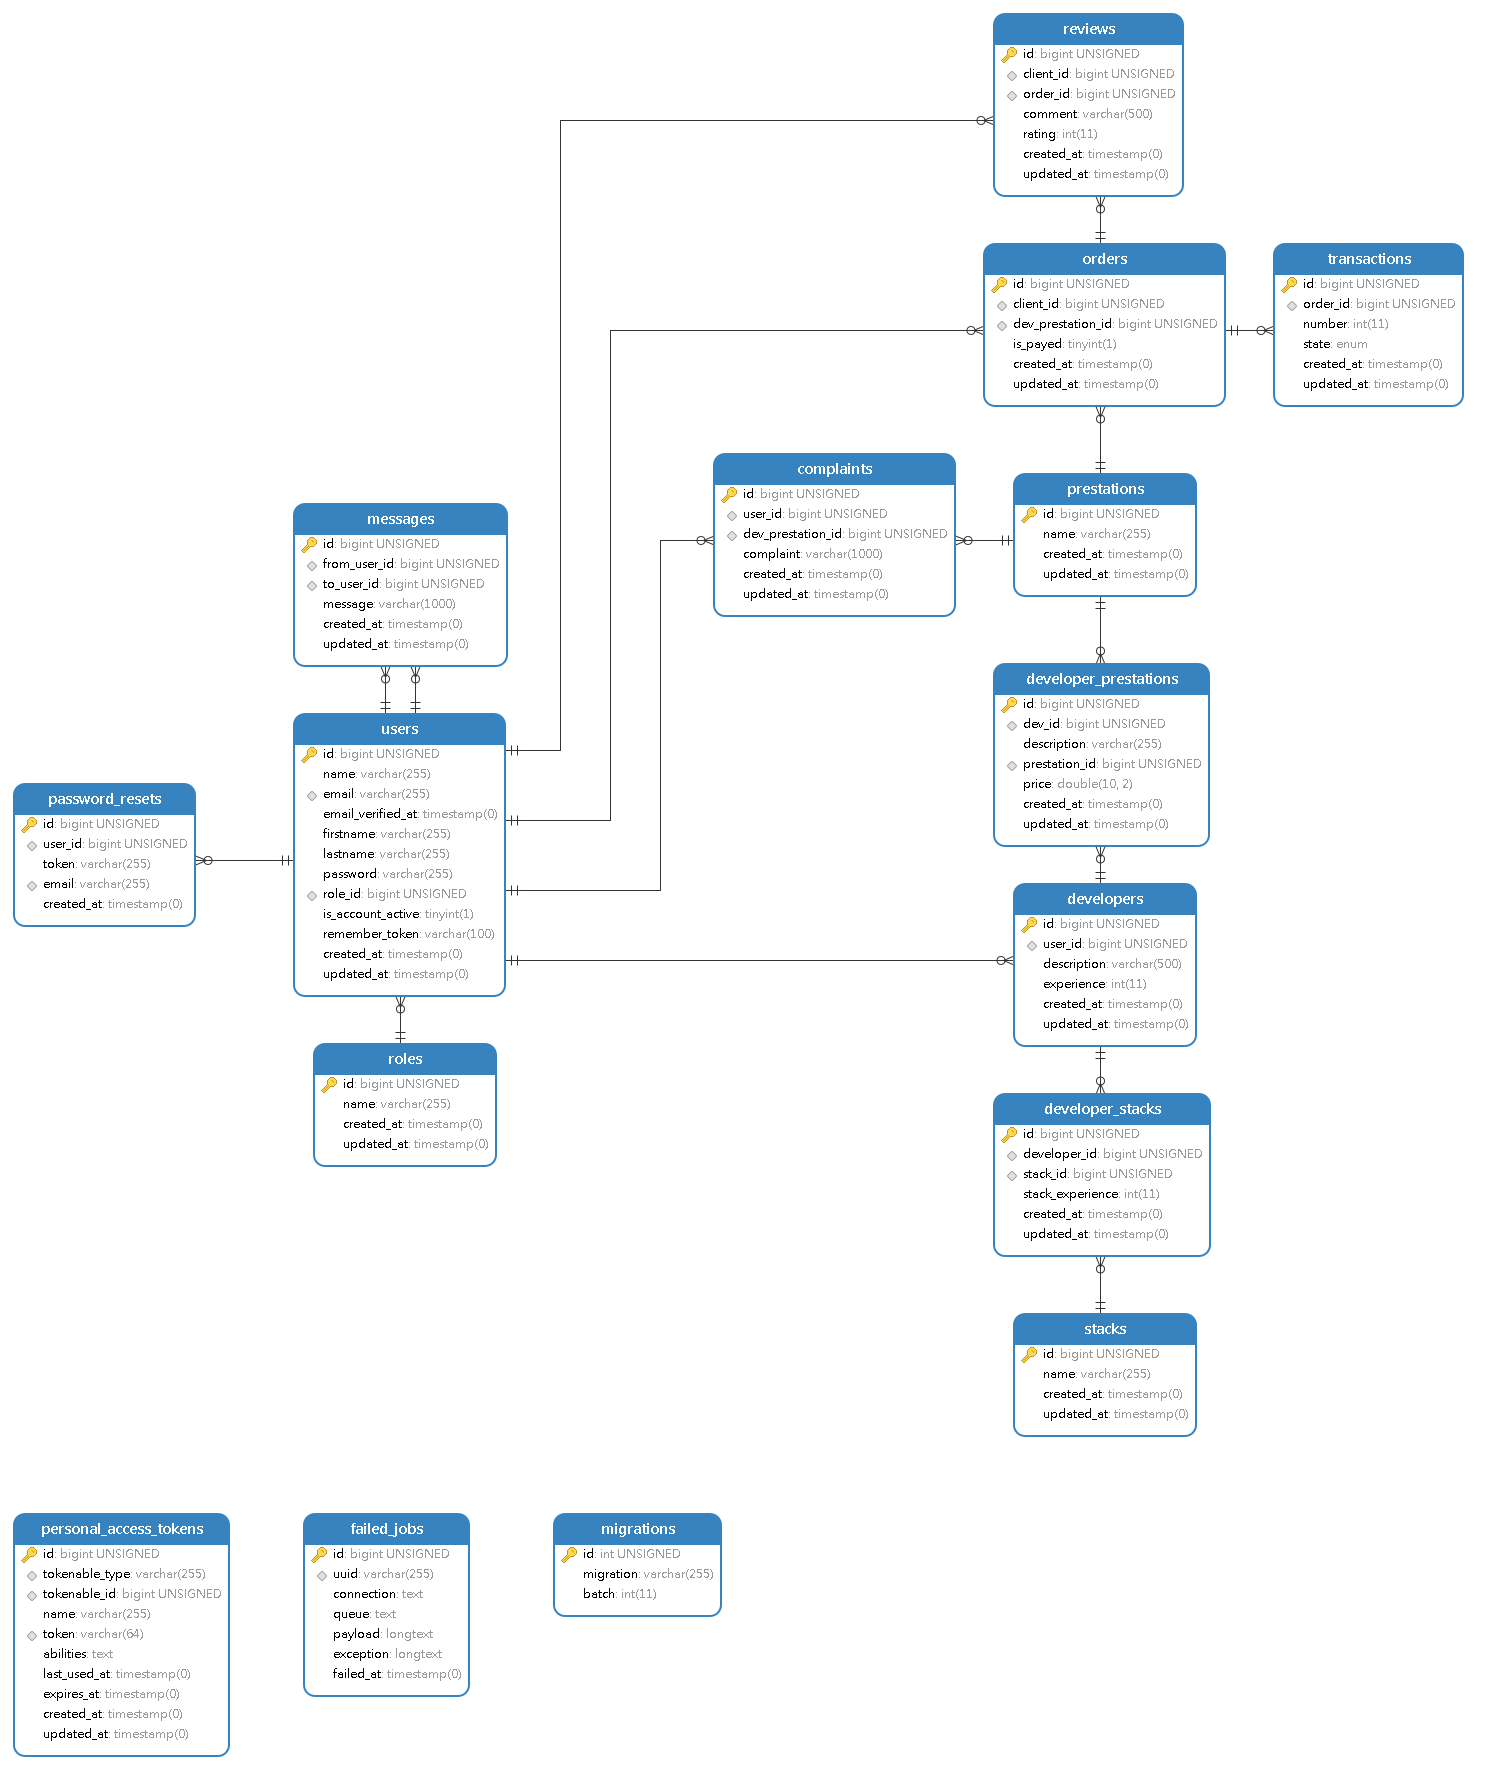
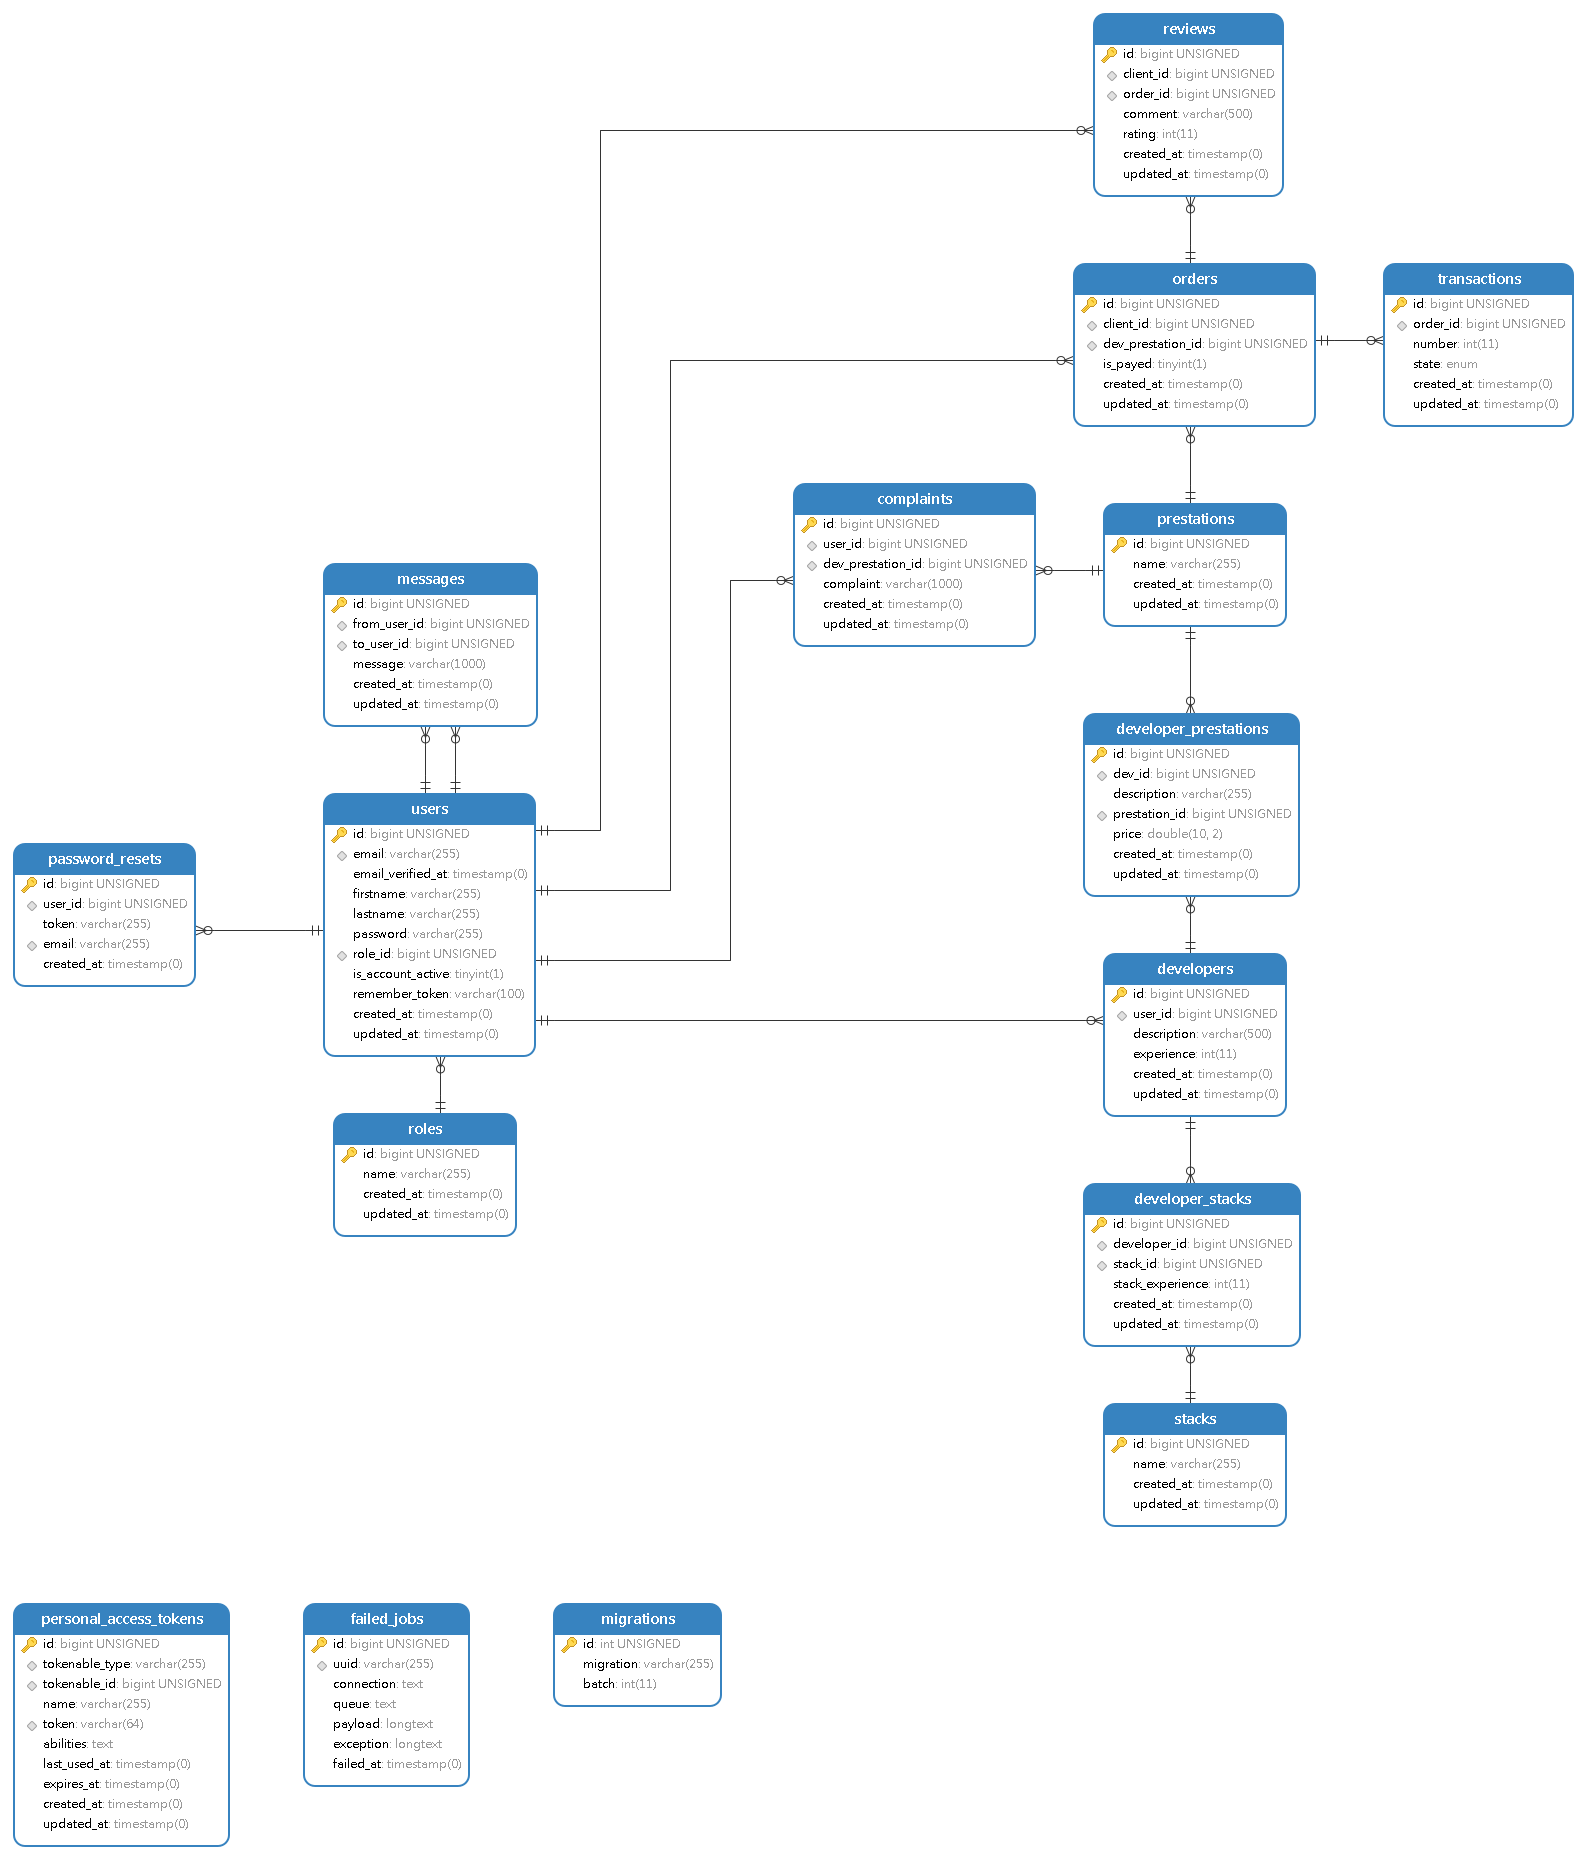
login/register controller + routing

diff --git a/app/Http/Controllers/Api/AuthController.php b/app/Http/Controllers/Api/AuthController.php
@@ -1,0 +1,102 @@
+<?php
+
+namespace App\Http\Controllers\Api;
+
+use App\Http\Controllers\Controller;
+use App\Http\Requests\LoginRegister\LoginUserRequest;
+use App\Http\Requests\LoginRegister\StoreNewUserRequest;
+use App\Models\Developer;
+use App\Models\PersonalAccessToken;
+use App\Models\User;
+//use http\Env\Request;
+use Illuminate\Support\Facades\Auth;
+use Illuminate\Support\Facades\Hash;
+use Illuminate\Http\Request;
+
+class AuthController extends Controller
+{
+    public function register(StoreNewUserRequest $request): \Illuminate\Http\JsonResponse
+    {
+        if ($request->input('type') == "client") {
+            if ($request->input('experience') == "" || $request->input('description') == "") {
+                $user = User::create([
+                    'firstname' => $request->input('firstname'),
+                    'lastname' => $request->input('lastname'),
+                    'email' => $request->input('email'),
+                    'password' => Hash::make($request->input('password')),
+                    'role_id' => 1
+                ]);
+            } else {
+                return response()->json([
+                    'error' => 'Invalid data.'
+                ], 400);
+            }
+        } else if ($request->input('type') == "developer") {
+            if ($request->input('experience') != "" || $request->input('description') != "") {
+                $user = User::create([
+                    'firstname' => $request->input('firstname'),
+                    'lastname' => $request->input('lastname'),
+                    'email' => $request->input('email'),
+                    'password' => Hash::make($request->input('password')),
+                    'role_id' => 2
+                ]);
+
+                $developer = Developer::create([
+                    'user_id' => $user->id,
+                    'description' => $request->input('description'),
+                    'experience' => $request->input('experience')
+                ]);
+
+                if(!$developer->id){
+                    User::destroy($user->id);
+                    return response()->json([
+                        'error' => 'Invalid data.'
+                    ], 400);
+                }
+            } else {
+                return response()->json([
+                    'error' => 'Invalid data.'
+                ], 400);
+            }
+        } else {
+            return response()->json([
+                'error' => 'Invalid data.'
+            ], 400);
+        }
+
+        $token = explode('|',$user->createToken('auth_token')->plainTextToken);
+
+        return response()->json([
+            'access_token' => $token[1],
+            'token_type' => 'Bearer',
+        ]);
+    }
+
+    public function login(LoginUserRequest $request): \Illuminate\Http\JsonResponse
+    {
+        if (!Auth::attempt($request->only('email', 'password'))) {
+            return response()->json([
+                'message' => 'Invalid login details'
+            ], 401)->header('Accept', 'application/json');
+        }
+
+        $user = User::where('email', $request['email'])->firstOrFail();
+
+        $token = explode('|',$user->createToken('auth_token')->plainTextToken);
+
+        return response()->json([
+            'user' => $user,
+            'dev' => $user->developer,
+            'access_token' => $token[1],
+            'token_type' => 'Bearer',
+        ]);
+    }
+
+    public function logout(Request $request)
+    {
+        $request->user()->currentAccessToken()->delete();
+        return response()->json([
+            'msg' => 'ok',
+        ]);
+    }
+}

diff --git a/database/seeders/UserSeeder.php b/database/seeders/UserSeeder.php
@@ -18,7 +18,6 @@ class UserSeeder extends Seeder
     {
         DB::table('users')->insert([
             [
-                'name' => 'admin',
                 'email' => Str::random(10).'@gmail.com',
                 'password' => Hash::make('password'),
                 'email_verified_at' => '2019-12-02 20:01:00',
@@ -30,7 +29,6 @@ class UserSeeder extends Seeder
                 'updated_at' => '2022-09-26 15:25:52',
             ],
             [
-                'name' => 'user',
                 'email' => Str::random(10).'@gmail.com',
                 'password' => Hash::make('password'),
                 'email_verified_at' => '2019-12-02 20:01:00',
@@ -42,7 +40,6 @@ class UserSeeder extends Seeder
                 'updated_at' => '2022-09-26 15:25:52',
             ],
             [
-                'name' => 'developer',
                 'email' => Str::random(10).'@gmail.com',
                 'password' => Hash::make('password'),
                 'email_verified_at' => '2019-12-02 20:01:00',

diff --git a/app/Http/Requests/LoginRegister/StoreNewUserRequest.php b/app/Http/Requests/LoginRegister/StoreNewUserRequest.php
@@ -1,0 +1,35 @@
+<?php
+
+namespace App\Http\Requests\LoginRegister;
+
+use Illuminate\Foundation\Http\FormRequest;
+
+class StoreNewUserRequest extends FormRequest
+{
+    /**
+     * Determine if the user is authorized to make this request.
+     *
+     * @return bool
+     */
+    public function authorize(): bool
+    {
+        return true;
+    }
+
+    /**
+     * Get the validation rules that apply to the request.
+     *
+     * @return array<string, mixed>
+     */
+    public function rules()
+    {
+        return [
+            'firstname' => 'required|string|max:255',
+            'lastname' => 'required|string|max:255',
+            'email' => 'required|string|email|max:255|unique:users',
+            'password' => 'required|string|min:8',
+            'experience' => 'required_if:type,developer|max:80',
+            'description' => 'required_if:type,developer|max:500'
+        ];
+    }
+}

diff --git a/database/migrations/2014_10_12_000000_create_users_table.php b/database/migrations/2014_10_12_000000_create_users_table.php
@@ -15,14 +15,13 @@ return new class extends Migration
     {
         Schema::create('users', function (Blueprint $table) {
             $table->id();
-            $table->string('name');
             $table->string('email')->unique();
             $table->timestamp('email_verified_at')->nullable();
             $table->string('firstname');
             $table->string('lastname');
             $table->string('password');
             $table->unsignedBigInteger('role_id');
-            $table->boolean('is_account_active');
+            $table->boolean('is_account_active')->default(0);
             $table->rememberToken();
             $table->timestamps();
         });

diff --git a/app/Http/Requests/LoginRegister/LoginUserRequest.php b/app/Http/Requests/LoginRegister/LoginUserRequest.php
@@ -1,0 +1,31 @@
+<?php
+
+namespace App\Http\Requests\LoginRegister;
+
+use Illuminate\Foundation\Http\FormRequest;
+
+class LoginUserRequest extends FormRequest
+{
+    /**
+     * Determine if the user is authorized to make this request.
+     *
+     * @return bool
+     */
+    public function authorize(): bool
+    {
+        return true;
+    }
+
+    /**
+     * Get the validation rules that apply to the request.
+     *
+     * @return array<string, mixed>
+     */
+    public function rules(): array
+    {
+        return [
+            'email' => 'required|email|exists:users,email',
+            'password' => 'required',
+        ];
+    }
+}
